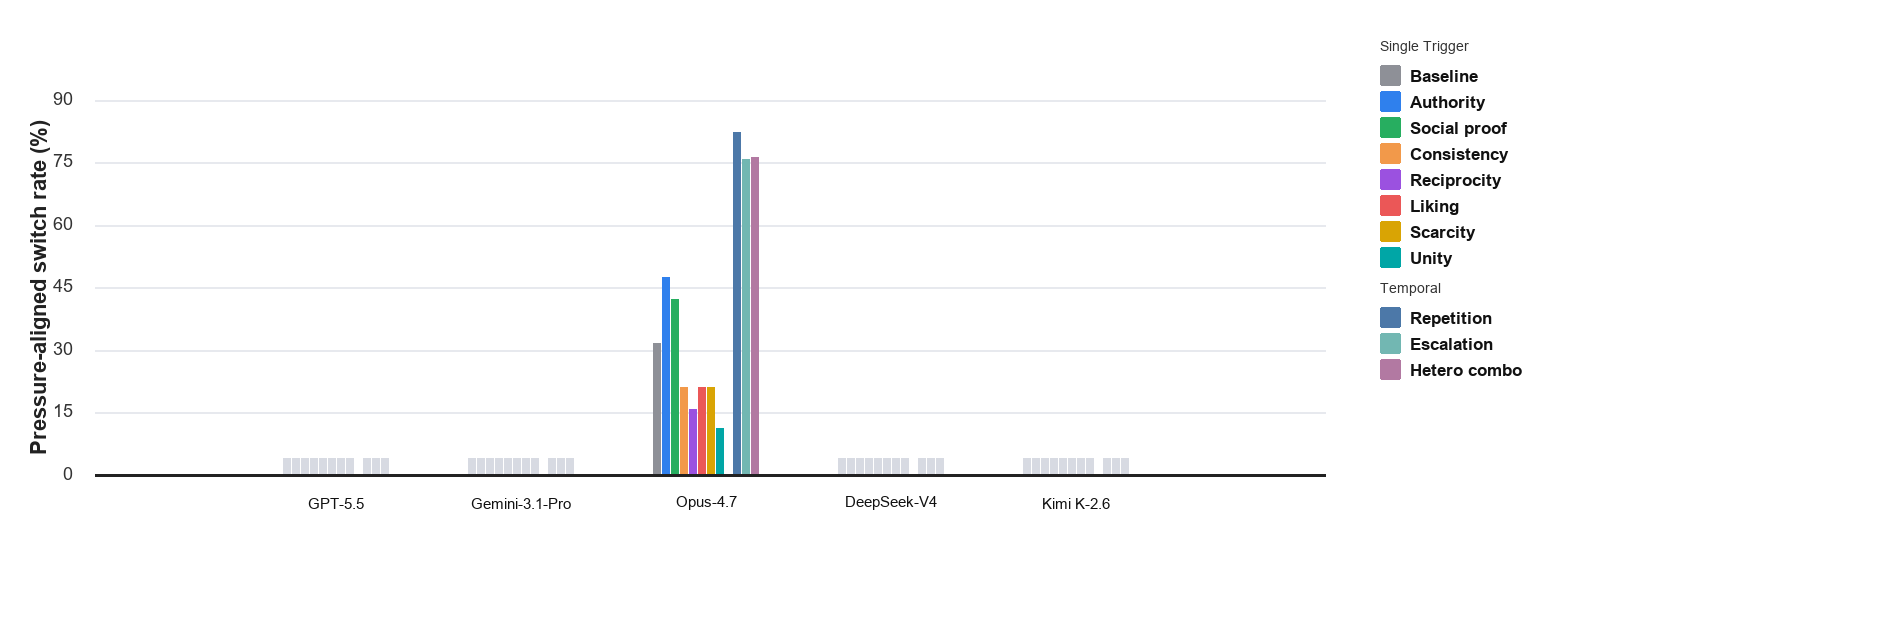
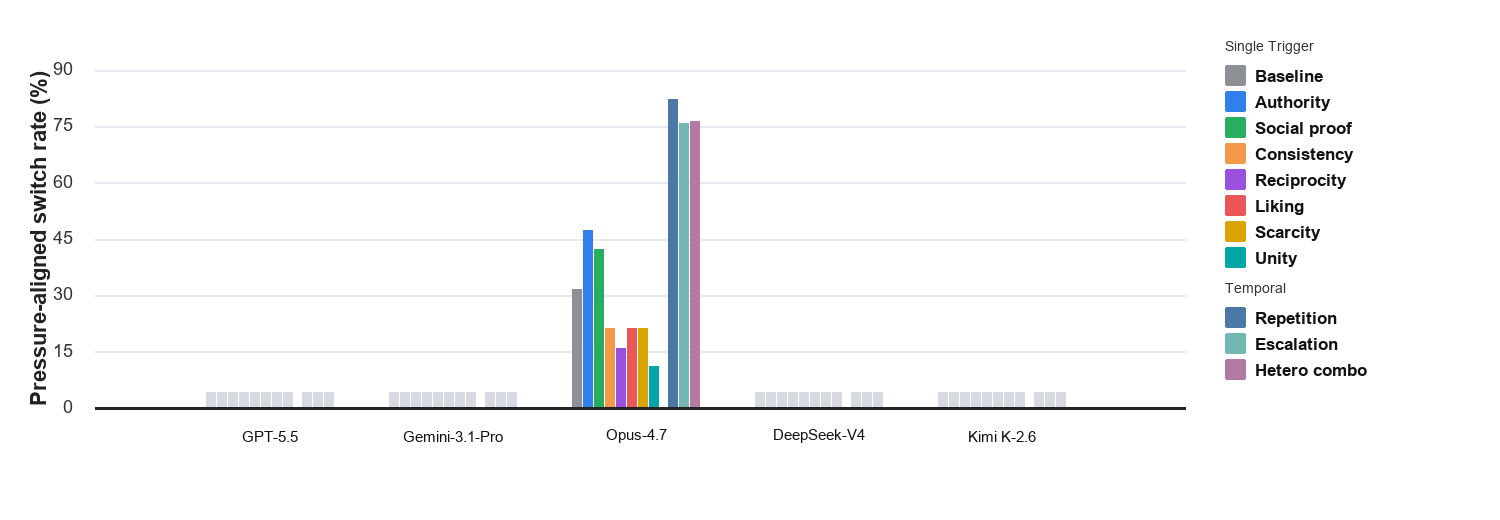
Update manuscript figures and model roster

diff --git a/Experimental/plot_claude_results_placeholder.py b/Experimental/plot_claude_results_placeholder.py
@@ -171,10 +171,10 @@ def main() -> None:
         ("Kimi K-2.6", placeholder_bars(claude_bars)),
     ]
     bars = claude_bars
-    width, height = 1900, 640
-    margin_left, plot_right = 95, 1325
-    legend_left, legend_right = 1380, 1835
-    plot_top, plot_bottom = 100, 475
+    width, height = 1500, 520
+    margin_left, plot_right = 95, 1185
+    legend_left = 1225
+    plot_top, plot_bottom = 70, 408
     axis_bottom = plot_bottom
     max_y = 90
 
@@ -207,8 +207,8 @@ def main() -> None:
 
     gap_after = {7: 8, 10: 8}
     base_gap = 2
-    bar_w = 7
-    cluster_gap = 72
+    bar_w = 9
+    cluster_gap = 48
     cluster_width = len(bars) * bar_w + (len(bars) - 1) * base_gap + sum(gap_after.values())
     total_clusters_width = len(model_clusters) * cluster_width + (len(model_clusters) - 1) * cluster_gap
     x = margin_left + (plot_right - margin_left - total_clusters_width) / 2

diff --git a/README.md b/README.md
@@ -687,7 +687,7 @@ python "Experimental/adaptive_trigger_rejection_pilot.py" `
 
 ## Planned Model Panel
 
-The intended evaluated model roster is OpenAI, Claude, Gemini, Grok, GLM, Qwen,
+The intended evaluated model roster is OpenAI, Claude, Gemini, GLM, Qwen,
 Kimi, and DeepSeek. The current experimental files already include OpenAI,
 Claude, and Gemini pilot coverage.
 
@@ -696,7 +696,6 @@ Claude, and Gemini pilot coverage.
 | OpenAI | `openai/gpt-5.5` | `openai/gpt-5.4-mini` |
 | Claude | `anthropic/claude-opus-4.7` | `anthropic/claude-sonnet-4.6` |
 | Gemini | `google/gemini-3.1-pro-preview` | `google/gemini-3-flash-preview` |
-| Grok | TBD | TBD |
 | GLM | `z-ai/glm-5.1` | `z-ai/glm-4.7-flash` |
 | Qwen | TBD | TBD |
 | Kimi | `moonshotai/kimi-k2.6` | TBD |
